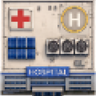
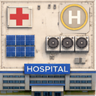
Align building colliders and depth

diff --git a/public/client.js b/public/client.js
@@ -192,7 +192,10 @@ const CAR_MAX_HEALTH = 100;
 const CAR_SMOKE_HEALTH = 50;
 const CAR_COLLISION_HALF_LENGTH_SCALE = 0.47;
 const CAR_COLLISION_HALF_WIDTH_SCALE = 0.47;
-const CAR_BUILDING_COLLISION_INSET_PX = 2;
+const CAR_BUILDING_COLLISION_INSET_X_PX = 0;
+const CAR_BUILDING_COLLISION_INSET_Y_PX = 2;
+const BUILDING_COLLIDER_TOP_OFFSET_PX = 4;
+const BUILDING_OCCLUSION_BAND_PX = 34;
 const INPUT_SEND_RATE = 72;
 const LOCAL_PREDICTION_RATE = 120;
 const REMOTE_INTERP_MIN_MS = 70;
@@ -1662,8 +1665,26 @@ function groundTypeAtWrapped(x, y) {
 }
 
 function isSolidForPed(x, y) {
-  const g = groundTypeAtWrapped(x, y);
-  return g === 'building' || g === 'void';
+  const worldX = wrapWorldX(x);
+  const worldY = wrapWorldY(y);
+  const g = groundTypeAtWrapped(worldX, worldY);
+  if (g === 'void') return true;
+  if (g !== 'building') return false;
+
+  const localX = mod(worldX, WORLD.blockPx);
+  const localY = mod(worldY, WORLD.blockPx);
+  const plotIndex = plotIndexForLocalCoord(localX, localY);
+  if (plotIndex === null) return false;
+
+  const blockX = Math.floor(worldX / WORLD.blockPx);
+  const blockY = Math.floor(worldY / WORLD.blockPx);
+  const rect = centeredBuildingRectForPlot(blockX, blockY, plotIndex);
+  return (
+    localX >= rect.x0 &&
+    localX < rect.x1 &&
+    localY >= rect.y0 + BUILDING_COLLIDER_TOP_OFFSET_PX &&
+    localY < rect.y1
+  );
 }
 
 function isSolidForCar(x, y) {
@@ -1681,12 +1702,14 @@ function isSolidForCar(x, y) {
   const blockX = Math.floor(worldX / WORLD.blockPx);
   const blockY = Math.floor(worldY / WORLD.blockPx);
   const rect = centeredBuildingRectForPlot(blockX, blockY, plotIndex);
-  const inset = CAR_BUILDING_COLLISION_INSET_PX;
+  const xInset = CAR_BUILDING_COLLISION_INSET_X_PX;
+  const yInset = CAR_BUILDING_COLLISION_INSET_Y_PX;
+  const topInset = yInset + BUILDING_COLLIDER_TOP_OFFSET_PX;
   return (
-    localX > rect.x0 + inset &&
-    localX < rect.x1 - inset &&
-    localY > rect.y0 + inset &&
-    localY < rect.y1 - inset
+    localX >= rect.x0 + xInset &&
+    localX < rect.x1 - xInset &&
+    localY >= rect.y0 + topInset &&
+    localY < rect.y1 - yInset
   );
 }
 
@@ -1773,8 +1796,7 @@ function centeredBuildingRectForPlot(blockX, blockY, plotIndex) {
   const lotY0 = ySide === 0 ? 0 : WORLD.roadEnd;
   const lotY1 = ySide === 0 ? WORLD.roadStart : WORLD.blockPx;
   const lotSize = Math.min(lotX1 - lotX0, lotY1 - lotY0);
-  const seed = hash2D(blockX * 71 + plotIndex * 17 + 11, blockY * 89 - plotIndex * 23 - 7);
-  const size = Math.max(56, Math.min(lotSize - 20, 72 + Math.floor(seed * 12)));
+  const size = Math.max(56, Math.min(lotSize - 8, 96));
   const x0 = Math.floor((lotX0 + lotX1 - size) * 0.5);
   const y0 = Math.floor((lotY0 + lotY1 - size) * 0.5);
   return { x0, y0, x1: x0 + size, y1: y0 + size };
@@ -1836,7 +1858,7 @@ function getBuildingPlotInfo(localX, localY, blockX, blockY) {
   if (plotIndex === null) return null;
 
   const rect = centeredBuildingRectForPlot(blockX, blockY, plotIndex);
-  if (localX <= rect.x0 || localX >= rect.x1 || localY <= rect.y0 || localY >= rect.y1) {
+  if (localX < rect.x0 || localX >= rect.x1 || localY < rect.y0 || localY >= rect.y1) {
     return null;
   }
 
@@ -2052,15 +2074,15 @@ function drawBuildingTextureTile(variant, plot, sx, sy, tile, localX, localY, ha
 
   const spanX = Math.max(1, plot.x1 - plot.x0);
   const spanY = Math.max(1, plot.y1 - plot.y0);
-  const u0 = clamp((localX - plot.x0) / spanX, 0, 1);
-  const v0 = clamp((localY - plot.y0) / spanY, 0, 1);
-  const u1 = clamp((localX + tile - plot.x0) / spanX, 0, 1);
-  const v1 = clamp((localY + tile - plot.y0) / spanY, 0, 1);
+  const relX0 = clamp(localX - plot.x0, 0, spanX);
+  const relY0 = clamp(localY - plot.y0, 0, spanY);
+  const relX1 = clamp(localX + tile - plot.x0, 0, spanX);
+  const relY1 = clamp(localY + tile - plot.y0, 0, spanY);
 
-  const srcX = clamp(Math.floor(u0 * (texture.width - 1)), 0, texture.width - 1);
-  const srcY = clamp(Math.floor(v0 * (texture.height - 1)), 0, texture.height - 1);
-  const srcX2 = clamp(Math.ceil(u1 * (texture.width - 1)), srcX + 1, texture.width);
-  const srcY2 = clamp(Math.ceil(v1 * (texture.height - 1)), srcY + 1, texture.height);
+  const srcX = clamp(Math.floor((relX0 / spanX) * texture.width), 0, texture.width - 1);
+  const srcY = clamp(Math.floor((relY0 / spanY) * texture.height), 0, texture.height - 1);
+  const srcX2 = clamp(Math.ceil((relX1 / spanX) * texture.width), srcX + 1, texture.width);
+  const srcY2 = clamp(Math.ceil((relY1 / spanY) * texture.height), srcY + 1, texture.height);
   const srcW = Math.max(1, srcX2 - srcX);
   const srcH = Math.max(1, srcY2 - srcY);
 
@@ -3497,6 +3519,43 @@ function drawWorld(state) {
   }
 }
 
+function drawBuildingsOverlay(state, worldLeft, worldTop) {
+  ensureBuildingTexturesLoaded();
+  ensureBlockTexturesLoaded();
+  const specialPlotVariants = buildSpecialPlotVariantMap(state?.world);
+  const viewW = canvas.width;
+  const viewH = canvas.height;
+  const tile = WORLD.tileSize;
+  const startX = Math.floor(worldLeft / tile) - 1;
+  const startY = Math.floor(worldTop / tile) - 1;
+  const endX = Math.floor((worldLeft + viewW) / tile) + 2;
+  const endY = Math.floor((worldTop + viewH) / tile) + 2;
+
+  for (let ty = startY; ty <= endY; ty += 1) {
+    const worldY = ty * tile;
+    const sy = Math.floor(worldY - worldTop);
+    for (let tx = startX; tx <= endX; tx += 1) {
+      const worldX = tx * tile;
+      const sx = Math.floor(worldX - worldLeft);
+      const type = worldGroundTypeAt(worldX + tile * 0.5, worldY + tile * 0.5);
+      if (type !== 'building') continue;
+      const localX = mod(worldX, WORLD.blockPx);
+      const localY = mod(worldY, WORLD.blockPx);
+      const blockX = Math.floor(worldX / WORLD.blockPx);
+      const blockY = Math.floor(worldY / WORLD.blockPx);
+      const plot = getBuildingPlotInfo(localX, localY, blockX, blockY);
+      if (!plot) continue;
+      if (localY >= plot.y0 + BUILDING_OCCLUSION_BAND_PX) continue;
+      const plotKey = `${blockX},${blockY},${plot.plotIndex}`;
+      const specialVariant = specialPlotVariants?.get(plotKey);
+      const variant = Number.isInteger(specialVariant)
+        ? specialVariant
+        : buildingVariantForPlot(blockX, blockY, plot.plotIndex);
+      drawBuildingTextureTile(variant, plot, sx, sy, tile, localX, localY, true);
+    }
+  }
+}
+
 function findShopByIdInWorld(world, id) {
   const shops = world?.shops || [];
   for (const shop of shops) {
@@ -4317,7 +4376,7 @@ function drawInCarPlayerLabels(state, worldLeft, worldTop) {
   }
   labelGroups.sort((a, b) => a.car.y - b.car.y);
 
-  ctx.font = '6px "Lucida Console", Monaco, monospace';
+  ctx.font = '7px "Lucida Console", Monaco, monospace';
   for (const group of labelGroups) {
     const sx = Math.round(group.car.x - worldLeft);
     const sy = Math.round(group.car.y - worldTop);
@@ -4331,16 +4390,19 @@ function drawInCarPlayerLabels(state, worldLeft, worldTop) {
       return an.localeCompare(bn);
     });
 
-    const baseY = sy - 12;
+    const baseY = sy - 14;
     for (let i = 0; i < group.occupants.length; i += 1) {
       const player = group.occupants[i];
       const label = String(player.name || '').trim() || 'Player';
       const textW = Math.ceil(ctx.measureText(label).width);
       const textX = Math.round(sx - textW * 0.5);
-      const textY = baseY - i * 9;
-      ctx.fillStyle = '#10161f';
+      const textY = baseY - i * 10;
+      ctx.fillStyle = 'rgba(4, 8, 12, 1)';
       ctx.fillText(label, textX + 1, textY + 1);
-      ctx.fillStyle = '#f3f7ff';
+      ctx.fillText(label, textX - 1, textY + 1);
+      ctx.fillText(label, textX + 1, textY - 1);
+      ctx.fillText(label, textX - 1, textY - 1);
+      ctx.fillStyle = '#e3ebf5';
       ctx.fillText(label, textX, textY);
     }
   }
@@ -4842,6 +4904,7 @@ function renderState(state, dt) {
   }
 
   drawInCarPlayerLabels(state, worldLeft, worldTop);
+  drawBuildingsOverlay(state, worldLeft, worldTop);
   drawSpecialBuildingSigns(state, worldLeft, worldTop);
   drawEffects(worldLeft, worldTop);
   drawCrosshair(worldLeft, worldTop, state);

diff --git a/server.js b/server.js
@@ -221,7 +221,9 @@ const STATIC_WORLD_PAYLOAD = Object.freeze({
 });
 const CAR_COLLISION_HALF_LENGTH_SCALE = 0.47;
 const CAR_COLLISION_HALF_WIDTH_SCALE = 0.47;
-const CAR_BUILDING_COLLISION_INSET_PX = 2;
+const CAR_BUILDING_COLLISION_INSET_X_PX = 0;
+const CAR_BUILDING_COLLISION_INSET_Y_PX = 2;
+const BUILDING_COLLIDER_TOP_OFFSET_PX = 4;
 const WEAPONS = {
   fist: {
     cooldown: 0.42,
@@ -455,8 +457,7 @@ function centeredBuildingRectForPlot(blockX, blockY, plotIndex) {
   const lotY0 = ySide === 0 ? 0 : ROAD_END;
   const lotY1 = ySide === 0 ? ROAD_START : BLOCK_PX;
   const lotSize = Math.min(lotX1 - lotX0, lotY1 - lotY0);
-  const seed = hash2D(blockX * 71 + plotIndex * 17 + 11, blockY * 89 - plotIndex * 23 - 7);
-  const size = Math.max(56, Math.min(lotSize - 20, 72 + Math.floor(seed * 12)));
+  const size = Math.max(56, Math.min(lotSize - 8, 96));
   const x0 = Math.floor((lotX0 + lotX1 - size) * 0.5);
   const y0 = Math.floor((lotY0 + lotY1 - size) * 0.5);
   return { x0, y0, x1: x0 + size, y1: y0 + size };
@@ -509,8 +510,26 @@ function roadInfoAt(x, y) {
 }
 
 function isSolidForPed(x, y) {
-  const g = groundTypeAt(x, y);
-  return g === 'building' || g === 'void';
+  const worldX = wrapWorldX(x);
+  const worldY = wrapWorldY(y);
+  const g = groundTypeAt(worldX, worldY);
+  if (g === 'void') return true;
+  if (g !== 'building') return false;
+
+  const localX = mod(worldX, BLOCK_PX);
+  const localY = mod(worldY, BLOCK_PX);
+  const plotIndex = plotIndexForLocalCoord(localX, localY);
+  if (plotIndex === null) return false;
+
+  const blockX = Math.floor(worldX / BLOCK_PX);
+  const blockY = Math.floor(worldY / BLOCK_PX);
+  const rect = centeredBuildingRectForPlot(blockX, blockY, plotIndex);
+  return (
+    localX >= rect.x0 &&
+    localX < rect.x1 &&
+    localY >= rect.y0 + BUILDING_COLLIDER_TOP_OFFSET_PX &&
+    localY < rect.y1
+  );
 }
 
 function isSolidForCar(x, y) {
@@ -528,12 +547,14 @@ function isSolidForCar(x, y) {
   const blockX = Math.floor(worldX / BLOCK_PX);
   const blockY = Math.floor(worldY / BLOCK_PX);
   const rect = centeredBuildingRectForPlot(blockX, blockY, plotIndex);
-  const inset = CAR_BUILDING_COLLISION_INSET_PX;
+  const xInset = CAR_BUILDING_COLLISION_INSET_X_PX;
+  const yInset = CAR_BUILDING_COLLISION_INSET_Y_PX;
+  const topInset = yInset + BUILDING_COLLIDER_TOP_OFFSET_PX;
   return (
-    localX > rect.x0 + inset &&
-    localX < rect.x1 - inset &&
-    localY > rect.y0 + inset &&
-    localY < rect.y1 - inset
+    localX >= rect.x0 + xInset &&
+    localX < rect.x1 - xInset &&
+    localY >= rect.y0 + topInset &&
+    localY < rect.y1 - yInset
   );
 }
 
